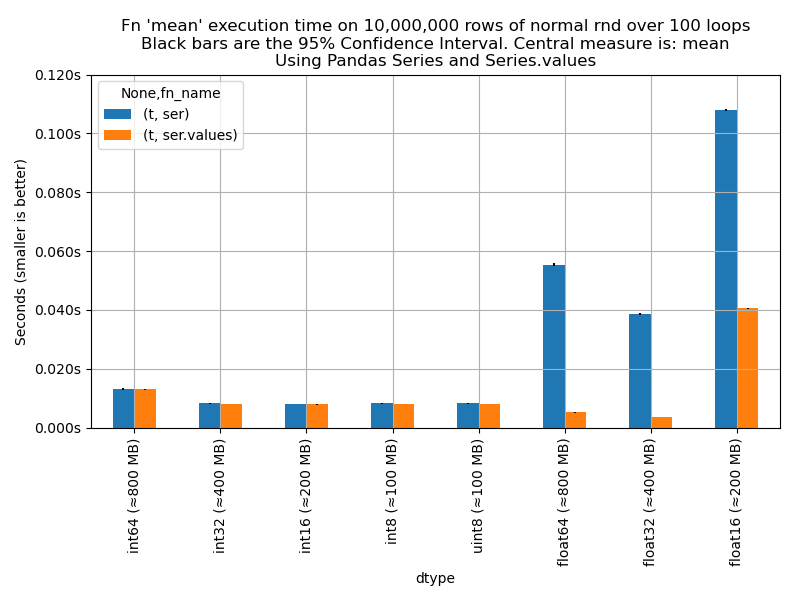
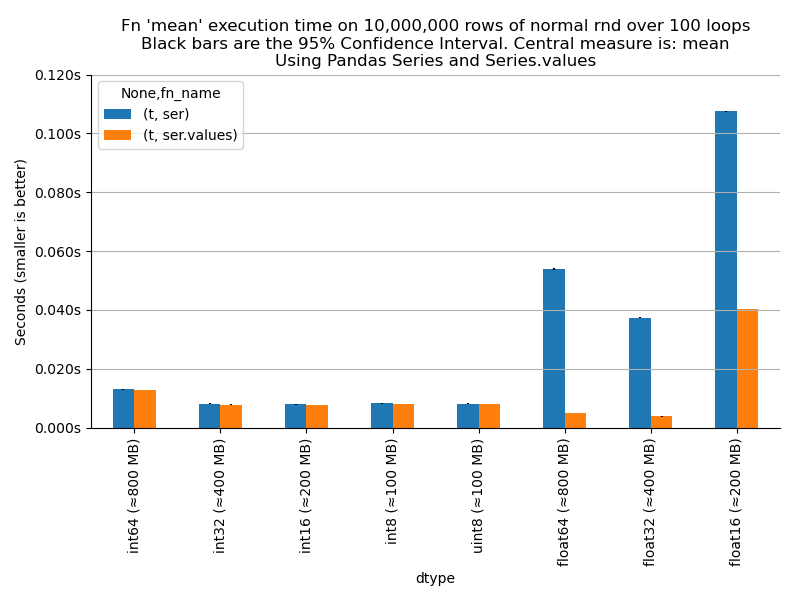
updates

Changed region(s): [[0.7812, 0.51, 0.8125, 0.54], [0.6875, 0.42, 0.7188, 0.45]]

diff --git a/speed_test_combined.py b/speed_test_combined.py
@@ -124,6 +124,10 @@ new_xticks = [f"{l.get_text()} (≈{int(bytes_used[l.get_text()]/100_000):,} MB)
 plt.xticks(locs, new_xticks); #, rotation=45, horizontalalignment='right')
 ax.set_xlabel('dtype');
 
+ax.spines['top'].set_visible(False)
+ax.spines['right'].set_visible(False)
+ax.grid(axis='x')
+
 ax.get_figure().tight_layout()
 ax.grid()
 

diff --git a/README.md b/README.md
@@ -13,6 +13,27 @@ This was developed whilst working on my Pandas memory-reduction tool https://git
 
 # Timing
 
+The following script expands upon:
+```
+import pandas as pd
+import numpy as np
+arr = pd.Series(np.ones(shape=1_000_000))
+arr.values.dtype                                                                                                                                                         
+Out[]: dtype('float64')
+
+# call arr.mean() vs arr.values.mean(), note circa 10* speed difference
+# with 4ms vs 0.4ms
+%timeit arr.mean()
+4.59 ms ± 44.4 µs per loop (mean ± std. dev. of 7 runs, 100 loops each)
+
+%timeit arr.values.mean()
+485 µs ± 5.73 µs per loop (mean ± std. dev. of 7 runs, 1000 loops each)
+
+# note that arr.values dereference is very cheap (nano seconds)
+%timeit arr.values 
+456 ns ± 0.828 ns per loop (mean ± std. dev. of 7 runs, 1000000 loops each)
+```
+
 Try `$ python speed_test_combined.py` and post `timings.png` as a bug with some notes on CPU if possible.
 
 Generated with:
@@ -49,8 +70,6 @@ i7z DEBUG: modprobbing for msr
 
 * Try Pandas dtypes `Int64` `boolean`
 * Add slowdown annotations to the graph for intertretability
-* Replace `float128` with `longdouble` (which is more consistent across platforms)
-* Add RAM usage to each column annotation
 
 # Setup on Ian's machine
 
